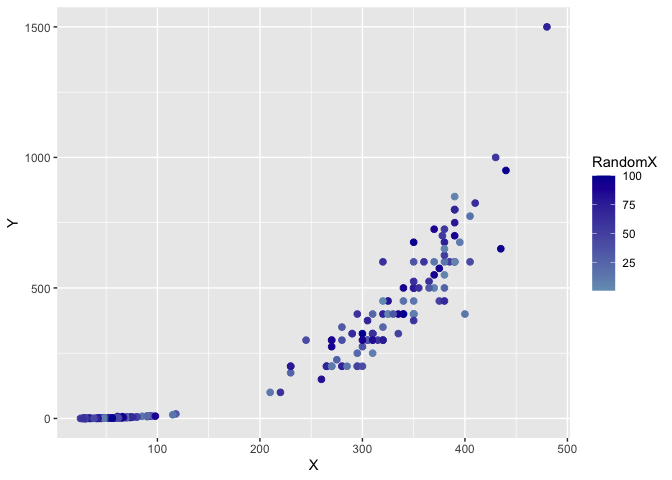
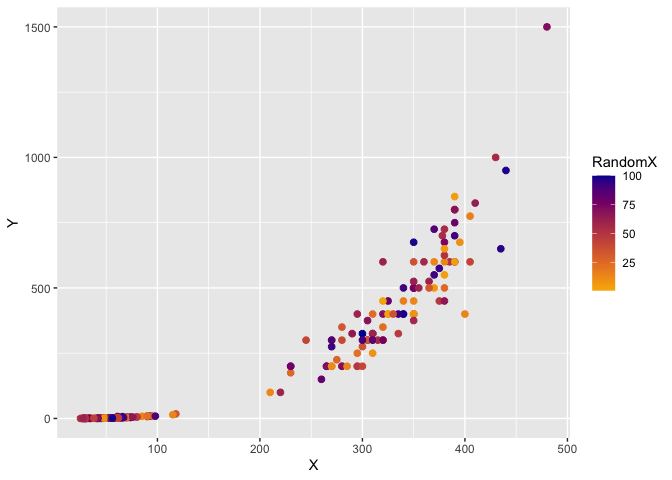
example to show custome gradients

diff --git a/README.md b/README.md
@@ -74,7 +74,7 @@ ggplot(poispalette::lines, aes(x = DateTimeData, y = Value)) +
 
 ggplot(poispalette::points, aes(x = X, y = Y)) +
   geom_point(aes(colour = RandomX), size = 2) +
-  poispalette::scale_colour_grad_poisson(palette = "cool")
+  poispalette::scale_colour_grad_poisson(palette = c("yellow", "red", "dark blue"))
 ```
 
 <img src="man/figures/README-example-4.png" width="100%" />
